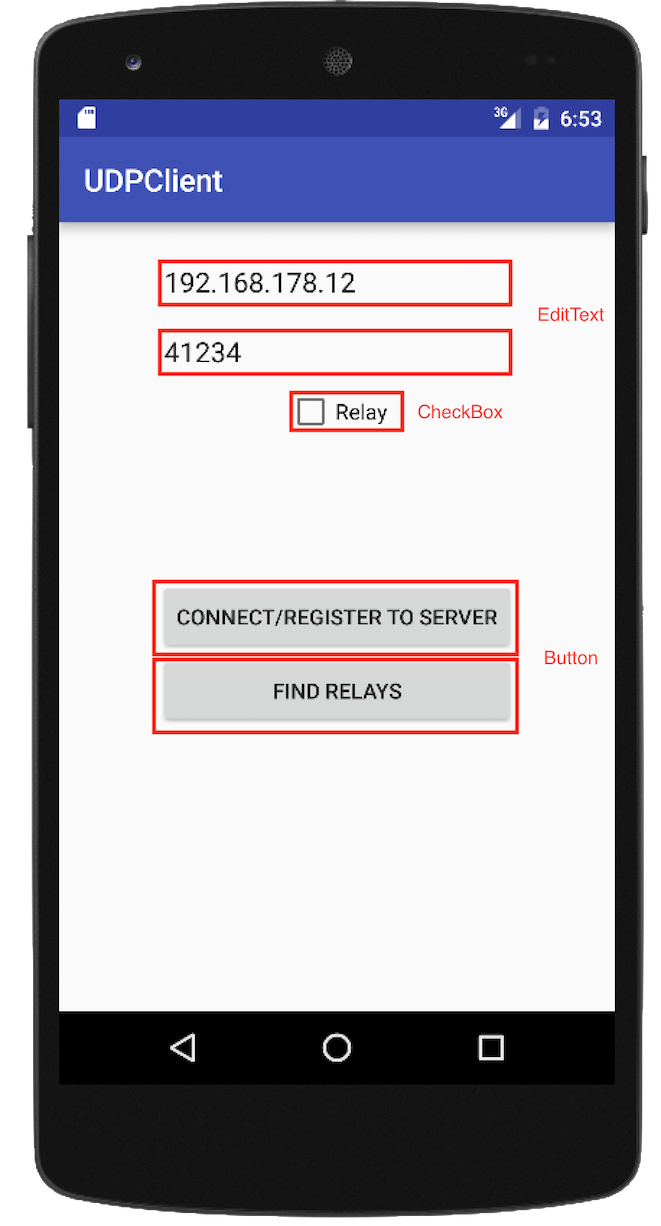
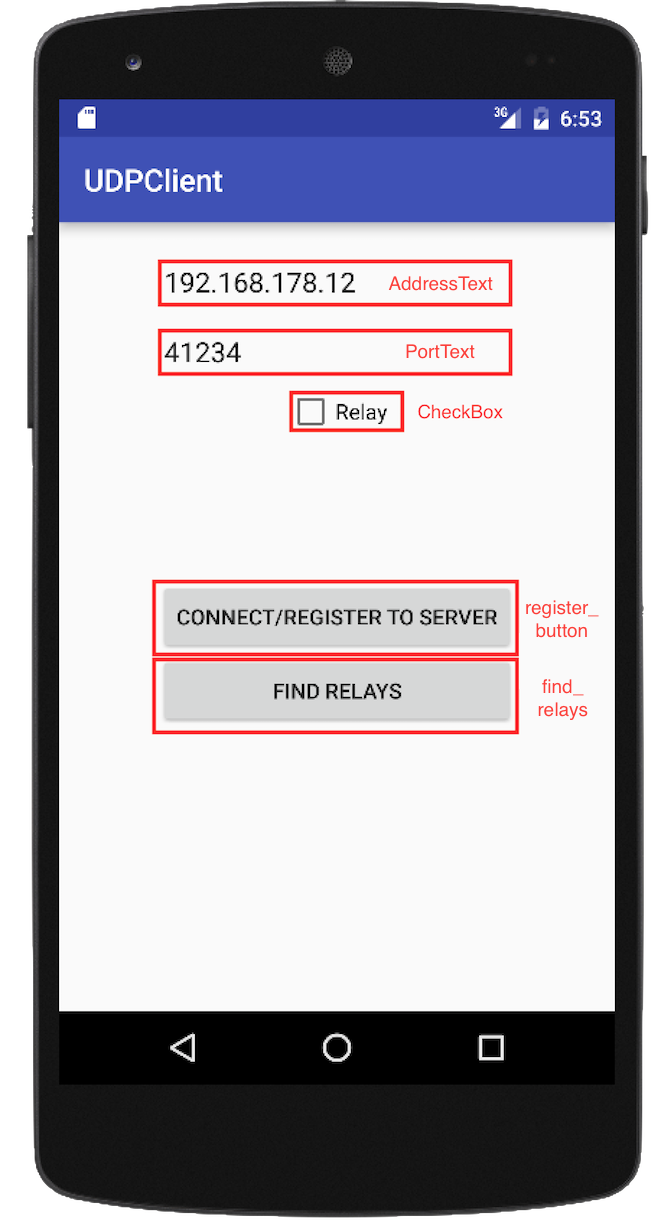
Added images for the UDP alphabet

diff --git a/Report.md b/Report.md
@@ -231,20 +231,31 @@ The application does not include many fuzzing points from the perspective that t
 ### UDPClient State Machine
 
 As mentioned before the first thing to do is creating the alphabet.
-After dumping all the 3 screens of the application `alphabet:compose` has been used to retrieve the alphabet.
-This was composed by 11 words:
+After dumping all the 3 screens (**FIGURE REF**) of the application `alphabet:compose` has been used to retrieve the alphabet.
+<div style="clear:left;">
+<img style="width: 150px; margin-left:10px; margin-top:10px" src="/img/main_screen.png">
+<img style="width: 150px; margin-left:10px; margin-top:10px" src="/img/second_page.png">
+<img style="width: 150px; margin-left:10px; margin-top:10px" src="/img/third_page.png">
+</div>
+
+The alphabet retrieved was composed by 11 words.
+These are listed below split into different sections based on the screen they refer to.
 
 **☐** enterText% AddressText  
 **☐** enterText% PortText  
 **☑** push% register_button  
 **☑** push% find_relays  
-**☐** check% checkBox  
+**☐** check% checkBox
+
 **☐** push% spinnerSource  
 **☐** push% spinnerTarget  
 **☐** push% ListView[1]\_1  
 **☐** push% ListView[1]\_2  
 **☑** push% RelayButton  
+
 **☑** push% RelayListView  
+
+
 
 The checked ones are the one that has been included in the final version of the alphabet to build the FSM.
 Deciding not to include all the words of the original alphabet into the final one was a a forced choice.
@@ -259,11 +270,11 @@ These words are the one checked on the list above.
 
 
 The following state machine that was created represents correctly the behavior of the UDPClient application.  
-* _State 0_ represents the first  screen of the aplication. The possible actions on this screen are either the 'Connect/Register to Server' or 'Find Relays' button. If the latter is pressed then the user cannot proceed since he first needs to connect to the server. We can see this behavior with the find_relays arrow that stays at _State 0_. On the other hand if the user clicks the first button he moves to _State 4_.
-* _State 1_ represents the state where all actions arrive if the corresponding alphabet element is not found.
-* _State 2_ represents the state where the user can only press the Relaybutton which as we can see leads to another state.
-* _State 3_ represents the final screen of the application. In this case the only part of the alphabet that is available is the RelayListView which when clicked remains in the same page. As we can see in the state machine this is represented correctly with the arrow that leads back to _State 3_.
-*  _State 4_ represents again the first screen but this time the user has registered. From that state if the user clicks the register button again he stays in the same state. If he presses the Find Relays button he can now proceed to _State 2_.
+* **State 0**: represents the first  screen of the aplication. The possible actions on this screen are either the 'Connect/Register to Server' or 'Find Relays' button. If the latter is pressed then the user cannot proceed since he first needs to connect to the server. We can see this behavior with the find_relays arrow that stays at _S<sub>0</sub>_. On the other hand if the user clicks the first button he moves to _S<sub>4</sub>_.
+* **State 1**: represents the state where all actions arrive if the corresponding alphabet element is not found.
+* **State 2**: represents the state where the user can only press the Relaybutton which as we can see leads to another state.
+* **State 3**: represents the final screen of the application. In this case the only part of the alphabet that is available is the RelayListView which when clicked remains in the same page. As we can see in the state machine this is represented correctly with the arrow that leads back to _S<sub>3</sub>_.
+*  **State 4**: represents again the first screen but this time the user has registered. From that state if the user clicks the register button again he stays in the same state. If he presses the Find Relays button he can now proceed to _S<sub>2</sub>_.
 
 ![State Machine](img/UDP_state_machine.png)
 
